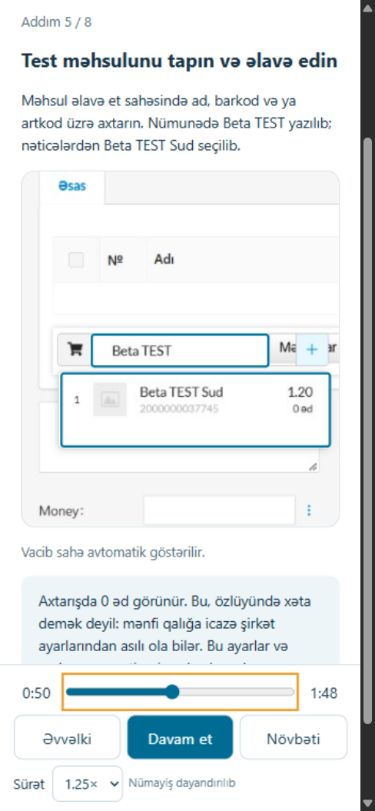
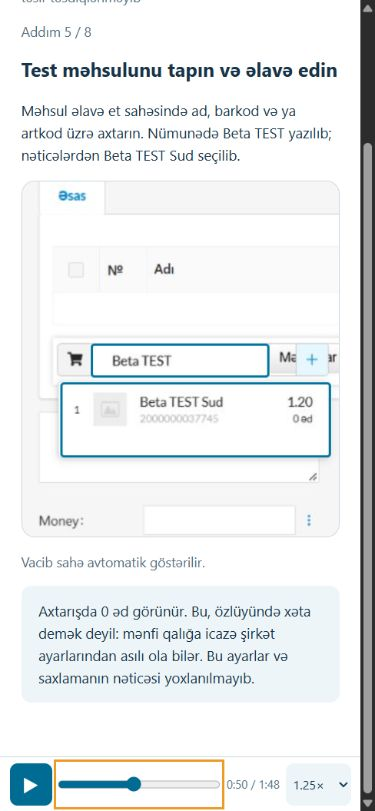
Simplify instructor player to compact accessible controls

diff --git a/beintaskbot-main/output/lessons/beinsystems-warehouse-transfer-az.html b/beintaskbot-main/output/lessons/beinsystems-warehouse-transfer-az.html
@@ -1,8 +1,11 @@
-<!doctype html><html lang="az"><meta charset="utf-8"><meta name="viewport" content="width=device-width,initial-scale=1"><meta http-equiv="Content-Security-Policy" content="default-src 'none'; img-src blob:; style-src 'unsafe-inline'; script-src 'unsafe-inline'; connect-src 'none'; base-uri 'none'; form-action 'none'"><title>Bein Demo — Anbarlar arasında yerdəyişmə</title><style>.instructor-lesson{font:16px/1.55 system-ui,sans-serif;color:#193449;max-width:1100px;margin:auto;padding:24px;box-sizing:border-box}.instructor-lesson *{box-sizing:border-box}.lesson-tag{font-size:12px;letter-spacing:.12em;color:#007197}.instructor-lesson h1{font-size:clamp(24px,4vw,34px);line-height:1.2;margin:8px 0}.instructor-lesson h2{font-size:clamp(20px,3vw,26px);margin:8px 0}.lesson-review,.lesson-count,.lesson-focus{font-size:14px;color:#547084}.lesson-stage{height:clamp(280px,56vh,500px);background:#e9f0f4;position:relative;overflow:hidden;border:1px solid #c8d8e1;border-radius:14px;touch-action:pan-y}.lesson-plane{position:absolute;left:0;top:0;transform-origin:0 0;will-change:transform}.lesson-plane img{display:block;width:100%;height:100%;user-select:none;pointer-events:none}.lesson-areas{position:absolute;inset:0;pointer-events:none}.lesson-area{position:absolute;border:3px solid #00749d;border-radius:4px;box-shadow:0 0 0 1px #fff8}.lesson-area.warning{border-color:#bd3434}.lesson-note{background:#eef5f9;padding:14px 18px;border-radius:10px}.instructor-lesson nav{display:flex;gap:10px;align-items:center;flex-wrap:wrap;position:sticky;bottom:0;background:#fffc;padding:12px 0;backdrop-filter:blur(8px)}.instructor-lesson button{border:1px solid #bacdd7;border-radius:9px;background:white;color:#163c51;padding:10px 18px;font:inherit;cursor:pointer}.instructor-lesson button[data-play]{background:#006c94;color:#fff}.instructor-lesson button:disabled{opacity:.45;cursor:default}.instructor-lesson button:focus-visible,.lesson-stage:focus-visible{outline:3px solid #ec9b25;outline-offset:3px}.lesson-status{font-size:13px;color:#547084}@media(max-width:600px){.instructor-lesson{padding:14px}.lesson-stage{height:44vh;min-height:260px}.instructor-lesson nav{gap:6px}.instructor-lesson button{padding:10px 12px;flex:1}.lesson-status{width:100%}.lesson-explanation,.lesson-note{font-size:15px}}@media(prefers-reduced-motion:reduce){.lesson-plane{transition:none!important}}
-
-@media(max-width:600px){.instructor-lesson{padding-bottom:120px}.instructor-lesson nav{position:fixed;left:0;right:0;bottom:0;z-index:10;padding:10px 14px;border-top:1px solid #c8d8e1;background:#fff}.lesson-stage{scroll-margin-bottom:110px}}
-
-.lesson-timeline{display:flex;align-items:center;gap:10px;width:100%;font-variant-numeric:tabular-nums}.lesson-timeline input{flex:1;min-width:40px;accent-color:#006c94;cursor:pointer;min-height:32px}.lesson-timeline time{min-width:3em;text-align:center}.lesson-speed{display:flex;align-items:center;gap:8px;margin-left:auto}.lesson-speed select{font:inherit;padding:8px;border:1px solid #bacdd7;border-radius:8px;background:white;color:#163c51}.instructor-lesson input:focus-visible,.instructor-lesson select:focus-visible{outline:3px solid #ec9b25;outline-offset:2px}.lesson-plane{transition:none}.lesson-status{min-width:160px}@media(max-width:600px){.instructor-lesson{padding-bottom:200px}.lesson-speed{margin-left:0;font-size:14px}.lesson-status{width:auto;flex:1;font-size:12px}.lesson-stage{scroll-margin-bottom:190px}.lesson-timeline{gap:4px}}
+<!doctype html><html lang="az"><meta charset="utf-8"><meta name="viewport" content="width=device-width,initial-scale=1"><meta http-equiv="Content-Security-Policy" content="default-src 'none'; img-src blob:; style-src 'unsafe-inline'; script-src 'unsafe-inline'; connect-src 'none'; base-uri 'none'; form-action 'none'"><title>Bein Demo — Anbarlar arasında yerdəyişmə</title><style>.instructor-lesson{font:16px/1.55 system-ui,sans-serif;color:#193449;max-width:1100px;margin:auto;padding:24px;box-sizing:border-box}.instructor-lesson *{box-sizing:border-box}.lesson-tag{font-size:12px;letter-spacing:.12em;color:#007197}.instructor-lesson h1{font-size:clamp(24px,4vw,34px);line-height:1.2;margin:8px 0}.instructor-lesson h2{font-size:clamp(20px,3vw,26px);margin:8px 0}.lesson-review,.lesson-count,.lesson-focus{font-size:14px;color:#547084}.lesson-stage{height:clamp(280px,56vh,500px);background:#e9f0f4;position:relative;overflow:hidden;border:1px solid #c8d8e1;border-radius:14px;touch-action:pan-y}.lesson-plane{position:absolute;left:0;top:0;transform-origin:0 0;will-change:transform}.lesson-plane img{display:block;width:100%;height:100%;user-select:none;pointer-events:none}.lesson-areas{position:absolute;inset:0;pointer-events:none}.lesson-area{position:absolute;border:3px solid #00749d;border-radius:4px;box-shadow:0 0 0 1px #fff8}.lesson-area.warning{border-color:#bd3434}.lesson-note{background:#eef5f9;padding:14px 18px;border-radius:10px}.instructor-lesson nav{display:grid;grid-template-columns:44px minmax(30px,1fr) auto 68px;gap:8px;align-items:center;position:sticky;bottom:0;background:#fffffff2;padding:6px 0;backdrop-filter:blur(8px)}
+.instructor-lesson button{border:0;border-radius:8px;background:#006c94;color:white;width:44px;height:44px;font:20px/1 system-ui;cursor:pointer}.instructor-lesson button:disabled{opacity:.45;cursor:default}
+.instructor-lesson button:focus-visible,.lesson-stage:focus-visible,.instructor-lesson input:focus-visible,.instructor-lesson select:focus-visible{outline:3px solid #ec9b25;outline-offset:2px}
+.lesson-timeline{display:contents}.lesson-timeline input{width:100%;min-width:0;margin:0;accent-color:#006c94;cursor:pointer;min-height:44px}.lesson-time{white-space:nowrap;font:12px/1.5 system-ui;font-variant-numeric:tabular-nums;color:#547084}
+.lesson-speed{min-width:0}.lesson-speed select{width:100%;height:44px;font:13px system-ui;padding:4px;border:0;border-radius:8px;background:#eef5f9;color:#163c51;cursor:pointer}
+.lesson-status{position:absolute;width:1px;height:1px;padding:0;overflow:hidden;clip-path:inset(50%);white-space:nowrap}.lesson-status.lesson-error{position:static;width:auto;height:auto;clip-path:none;white-space:normal;grid-column:1/-1;color:#a32222;font-size:13px}
+@media(max-width:600px){.instructor-lesson{padding:14px;padding-bottom:90px}.lesson-stage{height:44vh;min-height:260px;scroll-margin-bottom:80px}.instructor-lesson nav{position:fixed;left:0;right:0;bottom:0;z-index:10;padding:6px 10px;padding-bottom:calc(6px + env(safe-area-inset-bottom,0px));border-top:1px solid #c8d8e1;gap:6px}.lesson-explanation,.lesson-note{font-size:15px}}
+@media(prefers-reduced-motion:reduce){.lesson-plane{transition:none!important}}
 </style><main id="lesson"></main><script>/* Internal lesson player. No customer transport, browser execution or publication. */
 (function(global){'use strict';
 function transform(image,view,area,padding=50){
@@ -32,7 +35,7 @@ function mount(root,lesson,options={}){
  const total=offsets.at(-1),rates=[.75,1,1.25,1.5,2];
  let index=-1,position=0,started=0,rate=1.25,playing=false,ready=false,dead=false,timer=null,geometry=null,focus=null;
  root.classList.add('instructor-lesson');
- root.innerHTML='<header><span class="lesson-tag">BEIN DEMO · AZ</span><h1></h1><p class="lesson-review"></p></header><section aria-label="Dərsin addımı"><p class="lesson-count" aria-live="polite"></p><h2></h2><p class="lesson-explanation"></p><div class="lesson-stage" tabindex="0" aria-label="Real ekran görüntüsü"><div class="lesson-plane"><img alt=""><div class="lesson-areas"></div></div></div><p class="lesson-focus"></p><p class="lesson-note"></p></section><nav aria-label="Dərs idarəetməsi"><div class="lesson-timeline"><time data-current>0:00</time><input data-seek type="range" min="0" step="10" aria-label="Dərsin vaxtı"><time data-total></time></div><button type="button" data-back>Əvvəlki</button><button type="button" data-play>Başlat</button><button type="button" data-next>Növbəti</button><label class="lesson-speed">Sürət <select data-speed aria-label="Nümayiş sürəti"><option value="0.75">0.75×</option><option value="1">1×</option><option value="1.25" selected>1.25×</option><option value="1.5">1.5×</option><option value="2">2×</option></select></label><span class="lesson-status" aria-live="polite"></span></nav>';
+ root.innerHTML='<header><span class="lesson-tag">BEIN DEMO · AZ</span><h1></h1><p class="lesson-review"></p></header><section aria-label="Dərsin addımı"><p class="lesson-count" aria-live="polite"></p><h2></h2><p class="lesson-explanation"></p><div class="lesson-stage" tabindex="0" aria-label="Real ekran görüntüsü"><div class="lesson-plane"><img alt=""><div class="lesson-areas"></div></div></div><p class="lesson-focus"></p><p class="lesson-note"></p></section><nav aria-label="Dərs idarəetməsi"><button type="button" data-play aria-label="Başlat"><span aria-hidden="true">▶</span></button><div class="lesson-timeline"><input data-seek type="range" min="0" step="10" aria-label="Dərsin vaxtı"><span class="lesson-time"><time data-current>0:00</time><span aria-hidden="true"> / </span><time data-total></time></span></div><label class="lesson-speed"><select data-speed aria-label="Nümayiş sürəti"><option value="0.75">0.75×</option><option value="1">1×</option><option value="1.25" selected>1.25×</option><option value="1.5">1.5×</option><option value="2">2×</option></select></label><span class="lesson-status" aria-live="polite"></span></nav>';
  const $=s=>root.querySelector(s),stage=$('.lesson-stage'),plane=$('.lesson-plane'),img=$('img'),seekbar=$('[data-seek]');
  const motion=win.matchMedia?.('(prefers-reduced-motion: reduce)');
  const format=t=>{const n=Math.floor(t/1000);return Math.floor(n/60)+':'+String(n%60).padStart(2,'0');};
@@ -42,20 +45,21 @@ function mount(root,lesson,options={}){
  const time=()=>Math.min(total,position+(playing&&ready?(clock.now()-started)*rate:0));
  const clear=()=>{if(timer!==null)clock.clear(timer);timer=null;};
  function status(){
-  $('[data-play]').textContent=playing?'Pauza':position>=total?'Yenidən başlat':position?'Davam et':'Başlat';$('[data-play]').disabled=!ready;
+  const label=playing?'Pauza':position>=total?'Yenidən başlat':position?'Davam et':'Başlat';
+  $('[data-play] span').textContent=playing?'Ⅱ':'▶';$('[data-play]').setAttribute('aria-label',label);$('[data-play]').title=label;$('[data-play]').disabled=!ready;
   $('[data-play]').setAttribute('aria-pressed',String(playing));
   $('.lesson-status').textContent=position>=total?'Dərs tamamlandı':playing?'Avtomatik nümayiş':'Nümayiş dayandırılıb';
-  $('[data-back]').disabled=index===0;$('[data-next]').disabled=index===lesson.slides.length-1;
+
  }
  function loadSlide(next){
-  index=next;ready=false;const s=lesson.slides[index];
+  index=next;ready=false;$('.lesson-status').classList.remove('lesson-error');const s=lesson.slides[index];
   $('h2').textContent=s.title;$('.lesson-count').textContent=`Addım ${index+1} / ${lesson.slides.length}`;
   $('.lesson-explanation').textContent=s.explanation;$('.lesson-note').textContent=s.note;
   plane.style.width=s.image.width+'px';plane.style.height=s.image.height+'px';
   $('.lesson-areas').replaceChildren();for(const a of s.areas){const box=doc.createElement('span');box.className='lesson-area '+(a.intent==='warning'?'warning':'');Object.assign(box.style,{left:a.x+'px',top:a.y+'px',width:a.width+'px',height:a.height+'px'});$('.lesson-areas').append(box);}
   img.alt=`${index+1}. ${s.title} — Bein Demo real ekran görüntüsü`;
   img.onload=()=>{if(dead||index!==next)return;if(img.naturalWidth!==s.image.width||img.naturalHeight!==s.image.height){img.onerror();return;}ready=true;started=clock.now();render();status();tick();};
-  img.onerror=()=>{ready=false;pause();$('.lesson-status').textContent='Ekran görüntüsü yüklənmədi. Nümayiş dayandırıldı.';};
+  img.onerror=()=>{ready=false;pause();$('.lesson-status').classList.add('lesson-error');$('.lesson-status').textContent='Ekran görüntüsü yüklənmədi. Nümayiş dayandırıldı.';};
   const url=(options.resolveAsset||((id)=>id))(s.image.asset_id),resolved=new URL(url,win.location.href);
   if(!['http:','https:','blob:'].includes(resolved.protocol)||resolved.origin!==win.location.origin)throw Error('Asset origin forbidden');img.src=url;
  }
@@ -91,7 +95,7 @@ function mount(root,lesson,options={}){
  function speed(value){const n=Number(value);if(!rates.includes(n))return;position=time();started=clock.now();rate=n;$('[data-speed]').value=n;render();tick();}
  const manual=e=>{if(e.target.closest?.('[data-play],[data-speed]'))return;pause();};
  root.addEventListener('wheel',manual,{passive:true});root.addEventListener('pointerdown',manual);
- $('[data-back]').onclick=()=>go(index-1);$('[data-next]').onclick=()=>go(index+1);$('[data-play]').onclick=play;
+ $('[data-play]').onclick=play;
  seekbar.oninput=()=>{const value=seekbar.value;pause();seek(value);};$('[data-speed]').onchange=e=>speed(e.target.value);
  const keys=e=>{if(e.target.matches('input,textarea,select,button'))return;
   if(['ArrowRight','ArrowLeft','Home','End',' ','k'].includes(e.key)){e.preventDefault();

diff --git a/beintaskbot-main/docs/tenant-instructor-lesson.js b/beintaskbot-main/docs/tenant-instructor-lesson.js
@@ -27,7 +27,7 @@ function mount(root,lesson,options={}){
  const total=offsets.at(-1),rates=[.75,1,1.25,1.5,2];
  let index=-1,position=0,started=0,rate=1.25,playing=false,ready=false,dead=false,timer=null,geometry=null,focus=null;
  root.classList.add('instructor-lesson');
- root.innerHTML='<header><span class="lesson-tag">BEIN DEMO · AZ</span><h1></h1><p class="lesson-review"></p></header><section aria-label="Dərsin addımı"><p class="lesson-count" aria-live="polite"></p><h2></h2><p class="lesson-explanation"></p><div class="lesson-stage" tabindex="0" aria-label="Real ekran görüntüsü"><div class="lesson-plane"><img alt=""><div class="lesson-areas"></div></div></div><p class="lesson-focus"></p><p class="lesson-note"></p></section><nav aria-label="Dərs idarəetməsi"><div class="lesson-timeline"><time data-current>0:00</time><input data-seek type="range" min="0" step="10" aria-label="Dərsin vaxtı"><time data-total></time></div><button type="button" data-back>Əvvəlki</button><button type="button" data-play>Başlat</button><button type="button" data-next>Növbəti</button><label class="lesson-speed">Sürət <select data-speed aria-label="Nümayiş sürəti"><option value="0.75">0.75×</option><option value="1">1×</option><option value="1.25" selected>1.25×</option><option value="1.5">1.5×</option><option value="2">2×</option></select></label><span class="lesson-status" aria-live="polite"></span></nav>';
+ root.innerHTML='<header><span class="lesson-tag">BEIN DEMO · AZ</span><h1></h1><p class="lesson-review"></p></header><section aria-label="Dərsin addımı"><p class="lesson-count" aria-live="polite"></p><h2></h2><p class="lesson-explanation"></p><div class="lesson-stage" tabindex="0" aria-label="Real ekran görüntüsü"><div class="lesson-plane"><img alt=""><div class="lesson-areas"></div></div></div><p class="lesson-focus"></p><p class="lesson-note"></p></section><nav aria-label="Dərs idarəetməsi"><button type="button" data-play aria-label="Başlat"><span aria-hidden="true">▶</span></button><div class="lesson-timeline"><input data-seek type="range" min="0" step="10" aria-label="Dərsin vaxtı"><span class="lesson-time"><time data-current>0:00</time><span aria-hidden="true"> / </span><time data-total></time></span></div><label class="lesson-speed"><select data-speed aria-label="Nümayiş sürəti"><option value="0.75">0.75×</option><option value="1">1×</option><option value="1.25" selected>1.25×</option><option value="1.5">1.5×</option><option value="2">2×</option></select></label><span class="lesson-status" aria-live="polite"></span></nav>';
  const $=s=>root.querySelector(s),stage=$('.lesson-stage'),plane=$('.lesson-plane'),img=$('img'),seekbar=$('[data-seek]');
  const motion=win.matchMedia?.('(prefers-reduced-motion: reduce)');
  const format=t=>{const n=Math.floor(t/1000);return Math.floor(n/60)+':'+String(n%60).padStart(2,'0');};
@@ -37,20 +37,21 @@ function mount(root,lesson,options={}){
  const time=()=>Math.min(total,position+(playing&&ready?(clock.now()-started)*rate:0));
  const clear=()=>{if(timer!==null)clock.clear(timer);timer=null;};
  function status(){
-  $('[data-play]').textContent=playing?'Pauza':position>=total?'Yenidən başlat':position?'Davam et':'Başlat';$('[data-play]').disabled=!ready;
+  const label=playing?'Pauza':position>=total?'Yenidən başlat':position?'Davam et':'Başlat';
+  $('[data-play] span').textContent=playing?'Ⅱ':'▶';$('[data-play]').setAttribute('aria-label',label);$('[data-play]').title=label;$('[data-play]').disabled=!ready;
   $('[data-play]').setAttribute('aria-pressed',String(playing));
   $('.lesson-status').textContent=position>=total?'Dərs tamamlandı':playing?'Avtomatik nümayiş':'Nümayiş dayandırılıb';
-  $('[data-back]').disabled=index===0;$('[data-next]').disabled=index===lesson.slides.length-1;
+
  }
  function loadSlide(next){
-  index=next;ready=false;const s=lesson.slides[index];
+  index=next;ready=false;$('.lesson-status').classList.remove('lesson-error');const s=lesson.slides[index];
   $('h2').textContent=s.title;$('.lesson-count').textContent=`Addım ${index+1} / ${lesson.slides.length}`;
   $('.lesson-explanation').textContent=s.explanation;$('.lesson-note').textContent=s.note;
   plane.style.width=s.image.width+'px';plane.style.height=s.image.height+'px';
   $('.lesson-areas').replaceChildren();for(const a of s.areas){const box=doc.createElement('span');box.className='lesson-area '+(a.intent==='warning'?'warning':'');Object.assign(box.style,{left:a.x+'px',top:a.y+'px',width:a.width+'px',height:a.height+'px'});$('.lesson-areas').append(box);}
   img.alt=`${index+1}. ${s.title} — Bein Demo real ekran görüntüsü`;
   img.onload=()=>{if(dead||index!==next)return;if(img.naturalWidth!==s.image.width||img.naturalHeight!==s.image.height){img.onerror();return;}ready=true;started=clock.now();render();status();tick();};
-  img.onerror=()=>{ready=false;pause();$('.lesson-status').textContent='Ekran görüntüsü yüklənmədi. Nümayiş dayandırıldı.';};
+  img.onerror=()=>{ready=false;pause();$('.lesson-status').classList.add('lesson-error');$('.lesson-status').textContent='Ekran görüntüsü yüklənmədi. Nümayiş dayandırıldı.';};
   const url=(options.resolveAsset||((id)=>id))(s.image.asset_id),resolved=new URL(url,win.location.href);
   if(!['http:','https:','blob:'].includes(resolved.protocol)||resolved.origin!==win.location.origin)throw Error('Asset origin forbidden');img.src=url;
  }
@@ -86,7 +87,7 @@ function mount(root,lesson,options={}){
  function speed(value){const n=Number(value);if(!rates.includes(n))return;position=time();started=clock.now();rate=n;$('[data-speed]').value=n;render();tick();}
  const manual=e=>{if(e.target.closest?.('[data-play],[data-speed]'))return;pause();};
  root.addEventListener('wheel',manual,{passive:true});root.addEventListener('pointerdown',manual);
- $('[data-back]').onclick=()=>go(index-1);$('[data-next]').onclick=()=>go(index+1);$('[data-play]').onclick=play;
+ $('[data-play]').onclick=play;
  seekbar.oninput=()=>{const value=seekbar.value;pause();seek(value);};$('[data-speed]').onchange=e=>speed(e.target.value);
  const keys=e=>{if(e.target.matches('input,textarea,select,button'))return;
   if(['ArrowRight','ArrowLeft','Home','End',' ','k'].includes(e.key)){e.preventDefault();

diff --git a/beintaskbot-main/docs/tenant-instructor-lesson.css b/beintaskbot-main/docs/tenant-instructor-lesson.css
@@ -1,5 +1,8 @@
-.instructor-lesson{font:16px/1.55 system-ui,sans-serif;color:#193449;max-width:1100px;margin:auto;padding:24px;box-sizing:border-box}.instructor-lesson *{box-sizing:border-box}.lesson-tag{font-size:12px;letter-spacing:.12em;color:#007197}.instructor-lesson h1{font-size:clamp(24px,4vw,34px);line-height:1.2;margin:8px 0}.instructor-lesson h2{font-size:clamp(20px,3vw,26px);margin:8px 0}.lesson-review,.lesson-count,.lesson-focus{font-size:14px;color:#547084}.lesson-stage{height:clamp(280px,56vh,500px);background:#e9f0f4;position:relative;overflow:hidden;border:1px solid #c8d8e1;border-radius:14px;touch-action:pan-y}.lesson-plane{position:absolute;left:0;top:0;transform-origin:0 0;will-change:transform}.lesson-plane img{display:block;width:100%;height:100%;user-select:none;pointer-events:none}.lesson-areas{position:absolute;inset:0;pointer-events:none}.lesson-area{position:absolute;border:3px solid #00749d;border-radius:4px;box-shadow:0 0 0 1px #fff8}.lesson-area.warning{border-color:#bd3434}.lesson-note{background:#eef5f9;padding:14px 18px;border-radius:10px}.instructor-lesson nav{display:flex;gap:10px;align-items:center;flex-wrap:wrap;position:sticky;bottom:0;background:#fffc;padding:12px 0;backdrop-filter:blur(8px)}.instructor-lesson button{border:1px solid #bacdd7;border-radius:9px;background:white;color:#163c51;padding:10px 18px;font:inherit;cursor:pointer}.instructor-lesson button[data-play]{background:#006c94;color:#fff}.instructor-lesson button:disabled{opacity:.45;cursor:default}.instructor-lesson button:focus-visible,.lesson-stage:focus-visible{outline:3px solid #ec9b25;outline-offset:3px}.lesson-status{font-size:13px;color:#547084}@media(max-width:600px){.instructor-lesson{padding:14px}.lesson-stage{height:44vh;min-height:260px}.instructor-lesson nav{gap:6px}.instructor-lesson button{padding:10px 12px;flex:1}.lesson-status{width:100%}.lesson-explanation,.lesson-note{font-size:15px}}@media(prefers-reduced-motion:reduce){.lesson-plane{transition:none!important}}
-
-@media(max-width:600px){.instructor-lesson{padding-bottom:120px}.instructor-lesson nav{position:fixed;left:0;right:0;bottom:0;z-index:10;padding:10px 14px;border-top:1px solid #c8d8e1;background:#fff}.lesson-stage{scroll-margin-bottom:110px}}
-
-.lesson-timeline{display:flex;align-items:center;gap:10px;width:100%;font-variant-numeric:tabular-nums}.lesson-timeline input{flex:1;min-width:40px;accent-color:#006c94;cursor:pointer;min-height:32px}.lesson-timeline time{min-width:3em;text-align:center}.lesson-speed{display:flex;align-items:center;gap:8px;margin-left:auto}.lesson-speed select{font:inherit;padding:8px;border:1px solid #bacdd7;border-radius:8px;background:white;color:#163c51}.instructor-lesson input:focus-visible,.instructor-lesson select:focus-visible{outline:3px solid #ec9b25;outline-offset:2px}.lesson-plane{transition:none}.lesson-status{min-width:160px}@media(max-width:600px){.instructor-lesson{padding-bottom:200px}.lesson-speed{margin-left:0;font-size:14px}.lesson-status{width:auto;flex:1;font-size:12px}.lesson-stage{scroll-margin-bottom:190px}.lesson-timeline{gap:4px}}
+.instructor-lesson{font:16px/1.55 system-ui,sans-serif;color:#193449;max-width:1100px;margin:auto;padding:24px;box-sizing:border-box}.instructor-lesson *{box-sizing:border-box}.lesson-tag{font-size:12px;letter-spacing:.12em;color:#007197}.instructor-lesson h1{font-size:clamp(24px,4vw,34px);line-height:1.2;margin:8px 0}.instructor-lesson h2{font-size:clamp(20px,3vw,26px);margin:8px 0}.lesson-review,.lesson-count,.lesson-focus{font-size:14px;color:#547084}.lesson-stage{height:clamp(280px,56vh,500px);background:#e9f0f4;position:relative;overflow:hidden;border:1px solid #c8d8e1;border-radius:14px;touch-action:pan-y}.lesson-plane{position:absolute;left:0;top:0;transform-origin:0 0;will-change:transform}.lesson-plane img{display:block;width:100%;height:100%;user-select:none;pointer-events:none}.lesson-areas{position:absolute;inset:0;pointer-events:none}.lesson-area{position:absolute;border:3px solid #00749d;border-radius:4px;box-shadow:0 0 0 1px #fff8}.lesson-area.warning{border-color:#bd3434}.lesson-note{background:#eef5f9;padding:14px 18px;border-radius:10px}.instructor-lesson nav{display:grid;grid-template-columns:44px minmax(30px,1fr) auto 68px;gap:8px;align-items:center;position:sticky;bottom:0;background:#fffffff2;padding:6px 0;backdrop-filter:blur(8px)}
+.instructor-lesson button{border:0;border-radius:8px;background:#006c94;color:white;width:44px;height:44px;font:20px/1 system-ui;cursor:pointer}.instructor-lesson button:disabled{opacity:.45;cursor:default}
+.instructor-lesson button:focus-visible,.lesson-stage:focus-visible,.instructor-lesson input:focus-visible,.instructor-lesson select:focus-visible{outline:3px solid #ec9b25;outline-offset:2px}
+.lesson-timeline{display:contents}.lesson-timeline input{width:100%;min-width:0;margin:0;accent-color:#006c94;cursor:pointer;min-height:44px}.lesson-time{white-space:nowrap;font:12px/1.5 system-ui;font-variant-numeric:tabular-nums;color:#547084}
+.lesson-speed{min-width:0}.lesson-speed select{width:100%;height:44px;font:13px system-ui;padding:4px;border:0;border-radius:8px;background:#eef5f9;color:#163c51;cursor:pointer}
+.lesson-status{position:absolute;width:1px;height:1px;padding:0;overflow:hidden;clip-path:inset(50%);white-space:nowrap}.lesson-status.lesson-error{position:static;width:auto;height:auto;clip-path:none;white-space:normal;grid-column:1/-1;color:#a32222;font-size:13px}
+@media(max-width:600px){.instructor-lesson{padding:14px;padding-bottom:90px}.lesson-stage{height:44vh;min-height:260px;scroll-margin-bottom:80px}.instructor-lesson nav{position:fixed;left:0;right:0;bottom:0;z-index:10;padding:6px 10px;padding-bottom:calc(6px + env(safe-area-inset-bottom,0px));border-top:1px solid #c8d8e1;gap:6px}.lesson-explanation,.lesson-note{font-size:15px}}
+@media(prefers-reduced-motion:reduce){.lesson-plane{transition:none!important}}

diff --git a/beintaskbot-main/docs/instructor-pilot/LESSON_STAGE_TWO.md b/beintaskbot-main/docs/instructor-pilot/LESSON_STAGE_TWO.md
@@ -114,3 +114,15 @@ loading cancellation, replay and automatic end, mobile/native ceiling, reduced
 motion, keyboard, asset failures/origin protection and timer cleanup. The existing
 48 Python contract/isolation tests also pass. Browser QA confirmed 0:50 → step 5,
 1:48 total, 1.25× default and mobile controls without horizontal overflow.
+
+
+### Compact control bar
+
+The bottom bar now uses one icon Play/Pause button, seek slider, elapsed/total time
+and a small speed selector. Previous/next buttons and visible routine status text
+were removed; screen readers still receive status and AZ action labels. Asset errors
+remain visible. All controls retain native keyboard support and 44px touch targets.
+Browser checks at 390px and 320px widths show a single approximately 57px row with
+no horizontal overflow. Timeline/focus/motion behavior and eight-step content are
+unchanged. Targeted player tests pass, including single-button structure and dynamic
+accessible Play/Pause labels.
